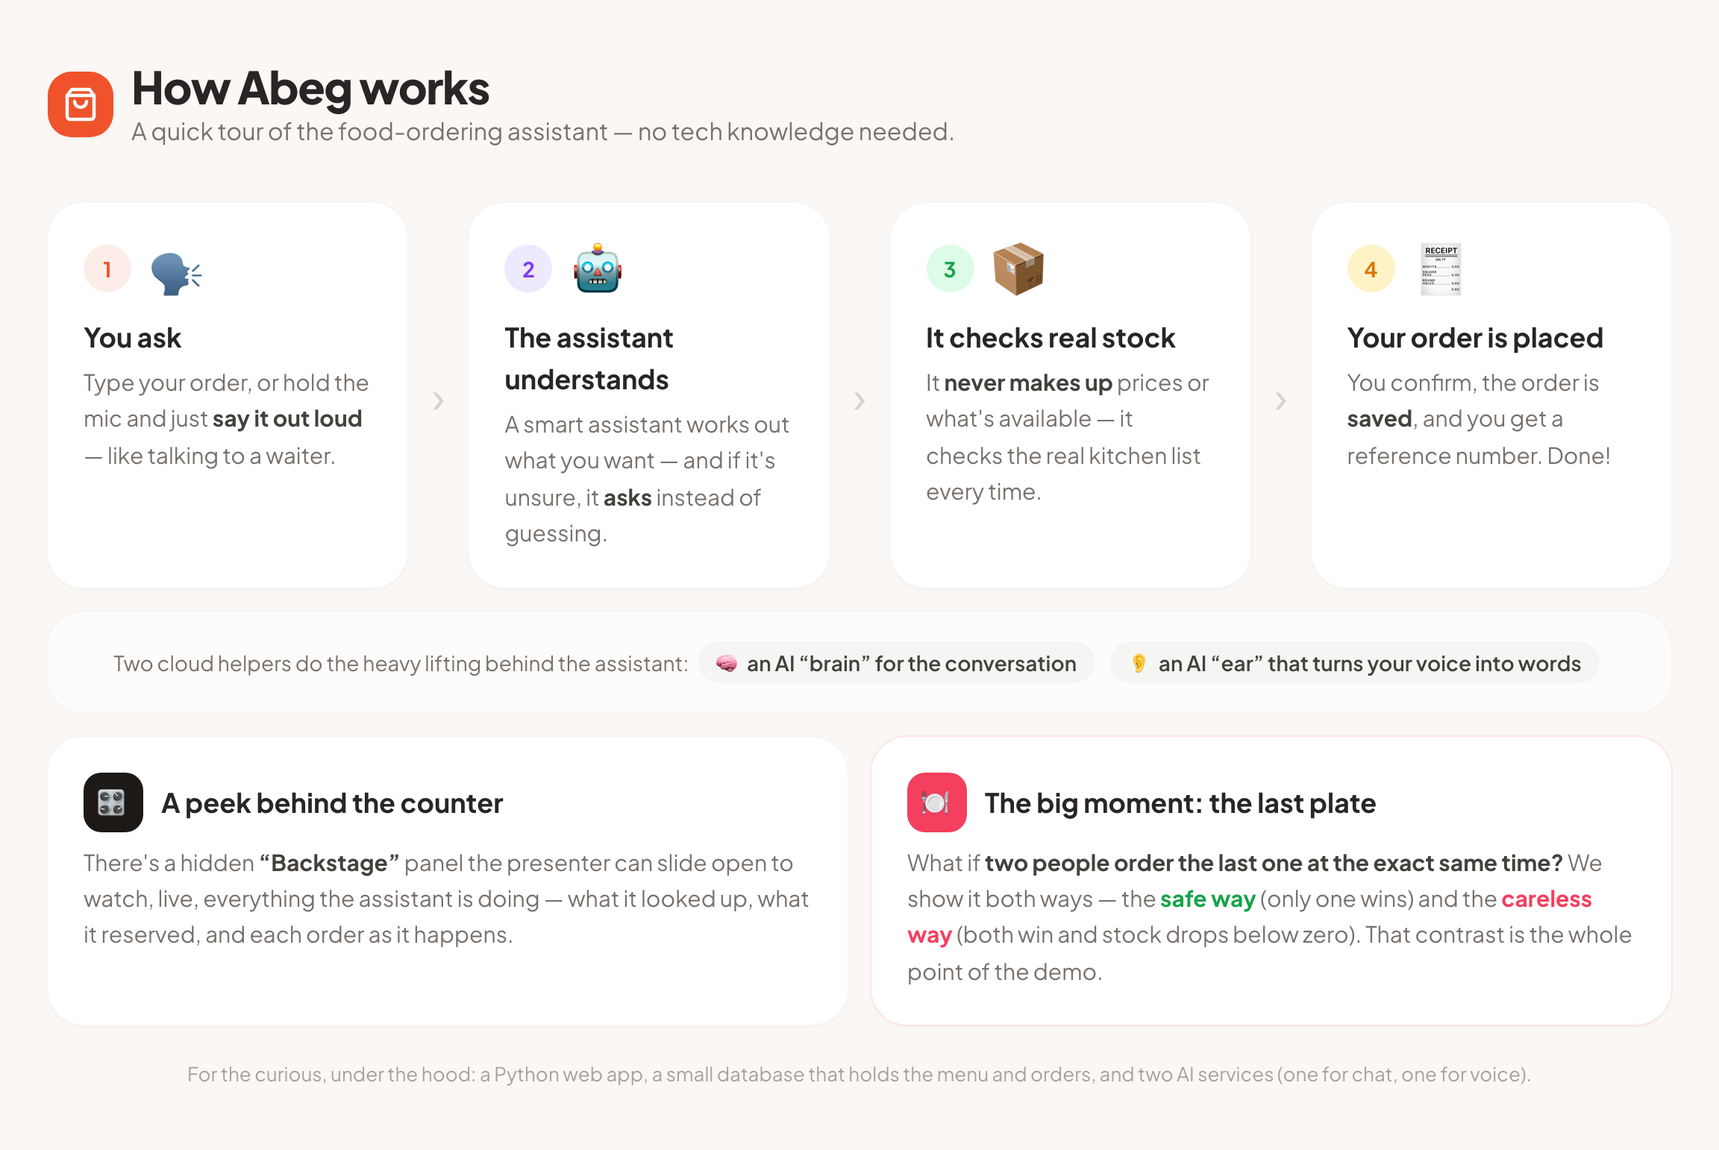
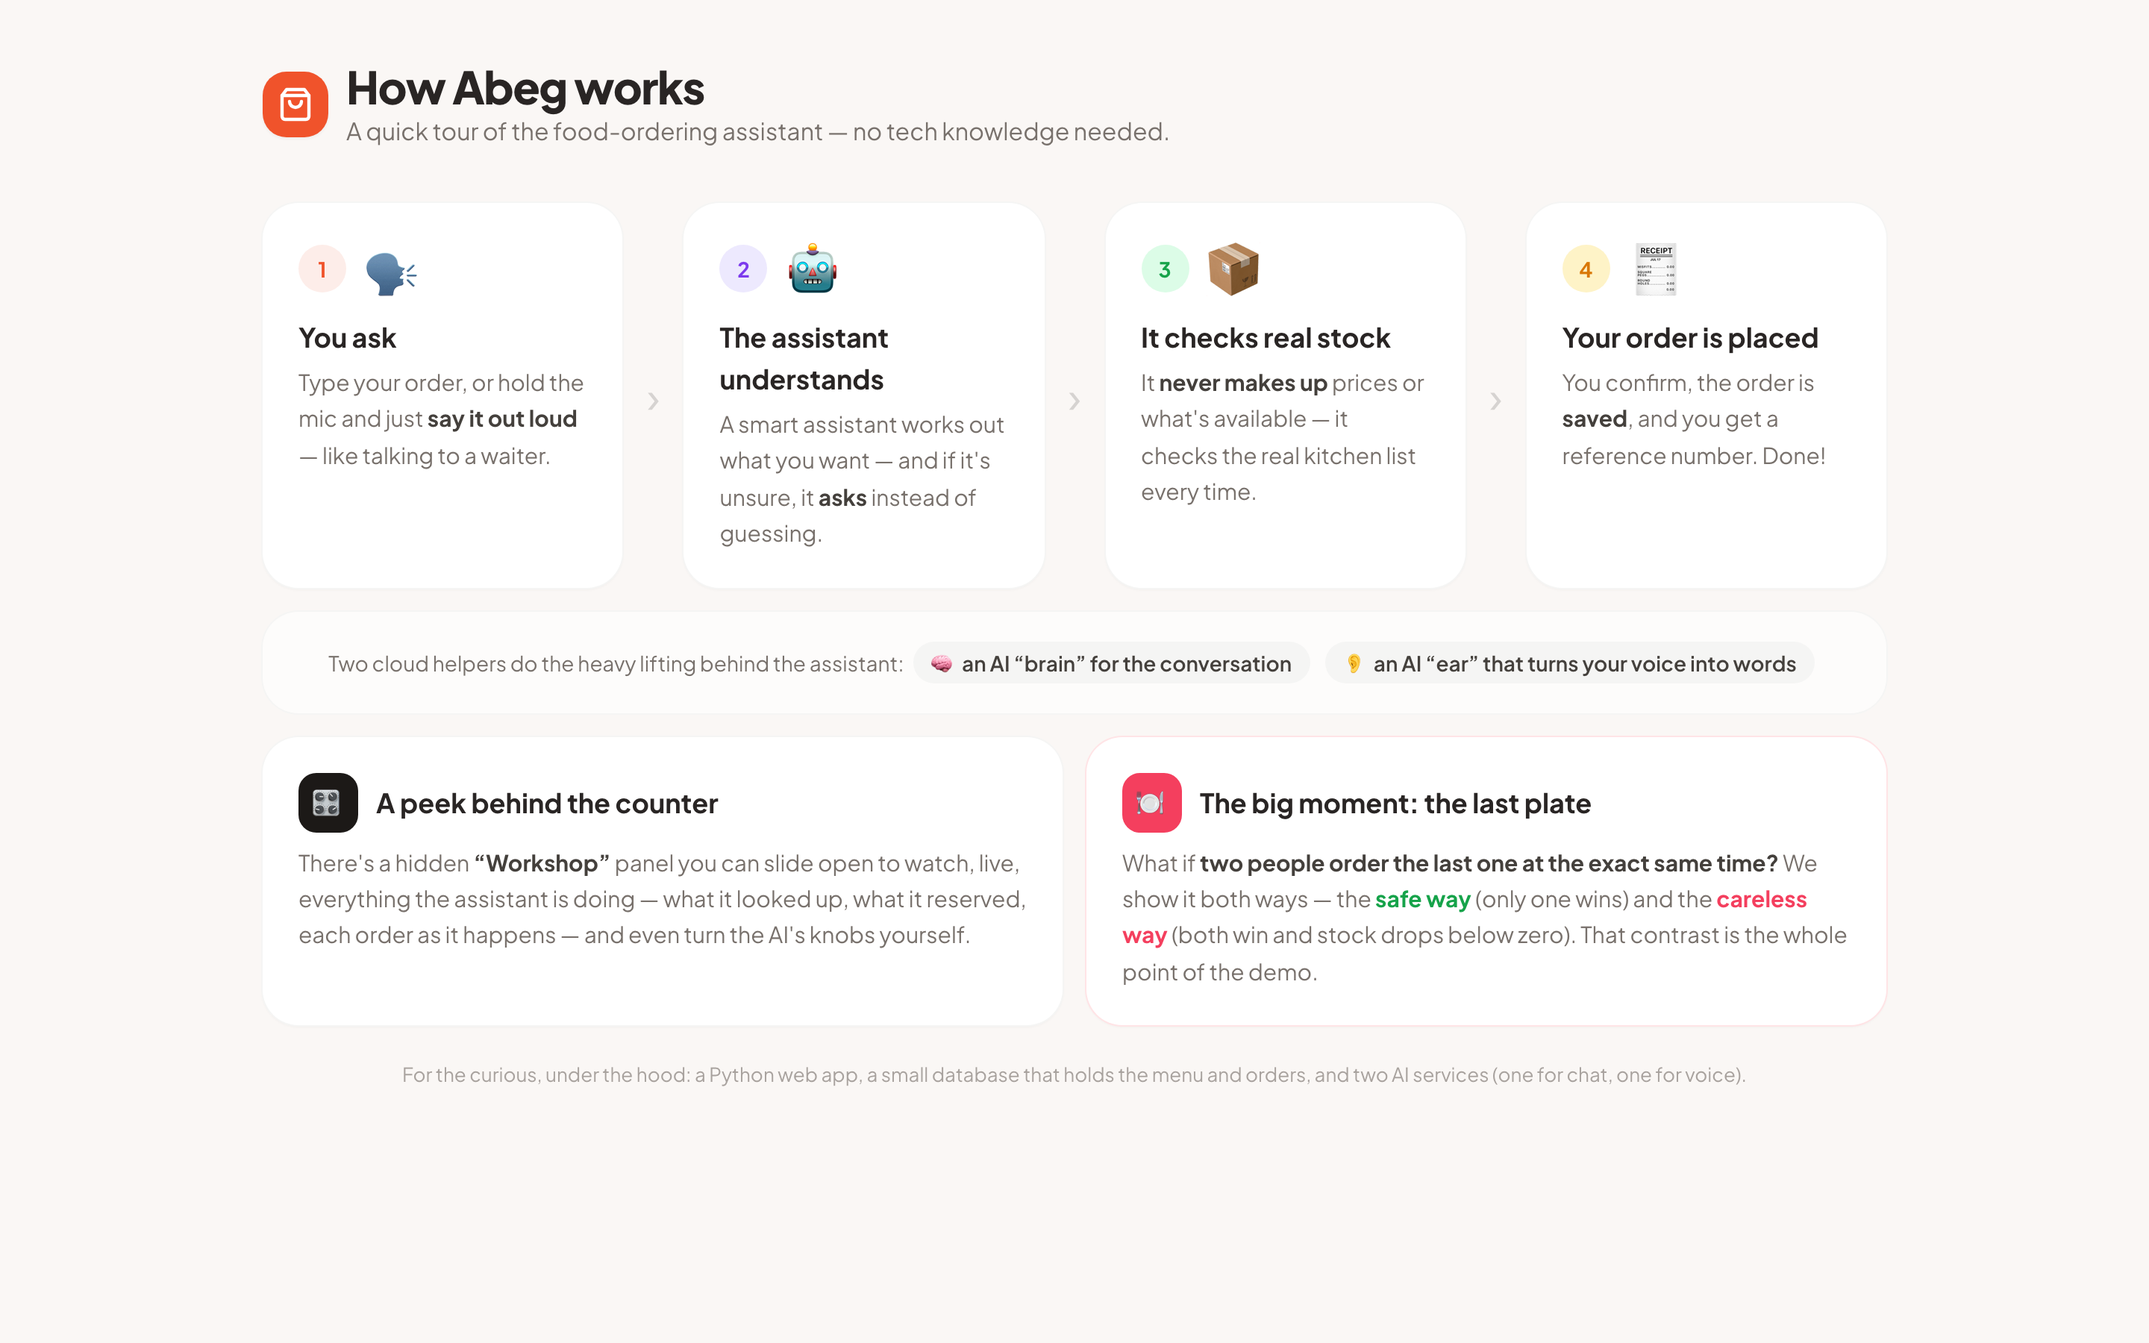
Docs: refresh README + docs, add live-demo & masterclass links, new screenshots
- README rewritten for the current app: live demo link (abeg.ifeolulesi.com),
  the Workshop, both guardrails (grounding + stay-on-task / prompt-injection),
  dark mode, BYOK, rate limiting, TypeScript; tests 24->31; keyboard 'O'
- Fresh screenshots (light + dark storefront, Workshop knobs, race, diagrams)
- Header: 'View source' -> abeg-app; add a subtle 🎓 Masterclass link
- docs/DEPLOY, LINKEDIN, architecture updated (repo name, env vars, Workshop)
- Add '🎓 From the masterclass' section linking the Selar recording

diff --git a/web/src/components/Header.tsx b/web/src/components/Header.tsx
@@ -54,7 +54,17 @@ export default function Header({
             System architecture
           </button>
           <a
-            href="https://github.com/IfeOlulesi/abeg"
+            href="https://selar.com/38531854y1"
+            target="_blank"
+            rel="noopener noreferrer"
+            className={`hidden sm:inline-flex ${base} ${idle}`}
+            title="Get the full Break Into AI Engineering masterclass recording"
+          >
+            <span className="text-[13px] leading-none">🎓</span>
+            Masterclass
+          </a>
+          <a
+            href="https://github.com/IfeOlulesi/abeg-app"
             target="_blank"
             rel="noopener noreferrer"
             className={`hidden sm:inline-flex ${base} ${idle}`}

diff --git a/README.md b/README.md
@@ -2,12 +2,15 @@
 
 # 🛍 Abeg — the AI order agent
 
-**A light e-commerce storefront with an AI assistant that takes orders by chat *or* voice — grounded in real inventory, with a live lesson in why database concurrency matters.**
+**A warm little food shop where customers order by chat *or* voice — and a hands-on lesson in the two guardrails every real AI product needs: don't make things up, and don't get talked into someone else's job.**
 
+[![Live demo](https://img.shields.io/badge/▶_Live_demo-abeg.ifeolulesi.com-F0532B.svg)](https://abeg.ifeolulesi.com)
 [![License: MIT](https://img.shields.io/badge/License-MIT-F0532B.svg)](LICENSE)
+![TypeScript](https://img.shields.io/badge/React-TS%20%2B%20Tailwind-38BDF8.svg)
 ![Python](https://img.shields.io/badge/Python-FastAPI-3776AB.svg)
-![React](https://img.shields.io/badge/React-Vite%20%2B%20Tailwind-38BDF8.svg)
 ![Postgres](https://img.shields.io/badge/DB-PostgreSQL-336791.svg)
+
+### ▶ **Try it live: [abeg.ifeolulesi.com](https://abeg.ifeolulesi.com)**
 
 <img src="docs/images/storefront.png" alt="Abeg storefront and order assistant" width="820" />
 
@@ -19,44 +22,79 @@
 
 **Abeg** ("please" in Nigerian Pidgin) is a small but complete demo: a food shop where customers order by **typing or talking** to an AI assistant. The assistant can only learn about products, prices and stock by **calling tools against a real database** — it never makes anything up.
 
-It was built as a **live masterclass demo** in two acts:
+It was built as the live demo for the **Break Into AI Engineering** masterclass, to make three ideas you can *feel* instead of just hear about:
 
-1. **It works.** A customer orders by voice and by chat; stock moves; a real order is created.
-2. **It breaks, then it doesn't.** Two customers race for the *last unit* at the same instant. In **naive mode** the shop oversells and stock goes negative — visibly. In **guarded mode** one order wins, the other is refused, and stock never drops below zero.
+1. **A grounded agent works.** A customer orders by voice and by chat; stock moves; a real order is created — every price and quantity pulled from Postgres.
+2. **Guardrails are the job.** Flip a switch and watch the AI **hallucinate a price** or get **prompt-injected into writing code** — then flip it back and watch it hold the line. (More below.)
+3. **Systems still bite.** Two customers race for the *last plate* at the same instant: in naive mode the shop oversells and stock goes negative; in guarded mode one order wins, the other is refused, and stock never drops below zero.
 
-Act two is the point: the whole payoff is the visible difference between a naive `read-then-write` and a transactional `SELECT … FOR UPDATE`, toggled live on stage.
+Everything runs on real infrastructure — no mocks — and you can poke at all of it live from **the Workshop**.
 
-## Features
+## 🎛 The Workshop — turn the knobs, watch the AI react
 
-- 🗣 **Order by voice or chat** — one pipeline, two input paths. Hold-to-talk streams your speech to text and feeds the same agent as a typed message.
-- 🧠 **Grounded AI agent** — 5 tools, native tool-calling. Never invents a product, price, or discount; asks when unsure; rejects off-menu items; all money recomputed server-side.
-- 📦 **Live inventory** — stock updates the instant it changes, across every open screen.
-- 🎛 **Backstage panel** — a slide-in operator view: guardrails/cached toggles, the race button, live inventory, and a plain-language activity feed of everything the agent does.
-- 🏁 **The concurrency act** — guarded (row-locked, transactional) vs naive (no lock) order paths, switchable at runtime with zero restart.
-- 🔌 **Swappable providers** — LLM and STT sit behind interfaces; a **cached mode** replays canned responses so the demo survives dead venue wifi.
+Open the **Workshop** (top-right, or press `B`) and you're looking at what an AI engineer actually controls — each with plain-language help and a one-tap **"Try it"**:
+
+<img src="docs/images/workshop.png" alt="The Workshop — live AI controls" width="820" />
+
+- **🧠 The AI's instructions** — the *actual* system prompt, live-editable. Edit it, send a message, watch behaviour change.
+- **🎯 Creativity dial** — temperature, from Focused to Wild.
+- **🛡 Grounding** — on: the AI answers only from the live database and refuses to speculate; **off: it happily makes up a price.** The single most important lesson, as a toggle.
+- **🎯 Stay on task** — prompt-injection defense (see below).
+- **🔀 The brain** — swap the underlying model (DeepSeek / GPT-4o-mini / Claude Haiku) and watch cost & latency move.
+- **🔑 Bring your own key** — paste your own OpenRouter key; your chats run on your account and skip the demo's limit.
+
+And the **X-ray** tab replays every turn in plain language — *you said → the AI decided to use a tool → the database answered → it replied* — with the **real tokens, latency and cost** from that turn. No JSON. That's "what happens inside AI engineering," made visible.
+
+## The two guardrails every AI product needs
+
+This is the heart of the demo — inspired by the viral moment when a customer talked a fast-food chain's AI into writing them a Python script instead of taking their order.
+
+| Guardrail | Off (the failure) | On (the fix) |
+|---|---|---|
+| **🛡 Grounding** | Invents a plausible price from memory | Refuses to speculate; looks it up in the database |
+| **🎯 Stay on task** | Gets **prompt-injected** — writes your linked-list code | Politely declines and steers back to ordering |
+
+Both are real: a firm prompt clause **plus** an output-side backstop that catches a slipped answer even if the model caves — and the X-ray shows a *"🛡 blocked"* chip when a guardrail fires. Tap **script #4** ("order jollof, then ask it to reverse a linked list") with **Stay on task** off, watch it get hijacked, then flip it on and watch it hold.
+
+## The concurrency act
+
+<img src="docs/images/race.png" alt="The last-unit race and live inventory" width="820" />
+
+Press `R` to send two orders for the *last plate* at the same instant. With **Grounding off** (naive `read-then-write`) the shop oversells and stock goes to **−1**, visibly. Flip it **on** (transactional `SELECT … FOR UPDATE`) and one order wins, the other is refused, and stock never drops below zero. Same app, one toggle — that contrast is the whole lesson.
+
+## Features at a glance
+
+- 🗣 **Order by voice or chat** — one agent pipeline, two input paths (hold-to-talk streams speech to text).
+- 🧠 **Grounded agent** — 5 tools, native tool-calling; all money recomputed server-side.
+- 🎛 **The Workshop** — live, explained controls for prompt, temperature, grounding, on-task, model, and BYOK.
+- 🔍 **X-ray** — plain-language turn trace with real tokens / latency / cost.
+- 🌙 **Light & dark mode** — warm by day, warm by night; respects your OS.
+- 🏁 **Concurrency demo** — guarded vs naive order paths, switchable live.
+- 💸 **Cost-safe by design** — per-IP + daily **rate limits**, **BYOK**, and a graceful "AI is catching its breath" message when a key is throttled.
+- 🔌 **Swappable providers** + a **cached mode** so a dead venue wifi can't kill the demo.
 
 ## Screenshots
 
-| Order by chat & voice | Backstage + the "last unit" race |
+| Dark mode | The beginner "how it works" |
 |---|---|
-| ![chat](docs/images/chat.png) | ![backstage](docs/images/backstage-race.png) |
+| ![dark](docs/images/storefront-dark.png) | ![how it works](docs/images/how-it-works.png) |
 
 ## How it works
 
-A 4-step story (and a component diagram) live in [`docs/architecture.md`](docs/architecture.md):
+A plain-language walkthrough and a system diagram open **inside the app** ("How it works" / "System architecture" in the header), and live in [`docs/architecture.md`](docs/architecture.md):
 
 <img src="docs/images/system.png" alt="System architecture: app, server, AI services, database" width="820" />
 
-- **The App** (React + Tailwind, in your browser) talks only to **the Server**.
-- **The Server** (Python · FastAPI) runs the agent and coordinates everything.
-- **AI services**: OpenRouter (chat/tool-calling) and Deepgram (speech-to-text).
-- **PostgreSQL** stores the menu, stock, and every order.
+- **The App** (React + TypeScript + Tailwind, in your browser) talks only to **the Server**.
+- **The Server** (Python · FastAPI) runs the agent and coordinates everything over SSE + WebSockets.
+- **AI services**: OpenRouter (chat / tool-calling) and Deepgram (speech-to-text).
+- **PostgreSQL** stores the menu, stock, and every order — with real transactions and row locks.
 
 ## Tech stack
 
 | Layer | Choice |
 |---|---|
-| Frontend | React 18, Vite, Tailwind CSS |
+| Frontend | React 18, **TypeScript**, Vite, Tailwind CSS |
 | Backend | Python, FastAPI, uvicorn (SSE + WebSocket) |
 | Database | PostgreSQL (asyncpg, real transactions & row locks) |
 | LLM | OpenRouter (any tool-calling model, e.g. DeepSeek) |
@@ -67,8 +105,8 @@ A 4-step story (and a component diagram) live in [`docs/architecture.md`](docs/a
 You need **Docker** and API keys for [OpenRouter](https://openrouter.ai/keys) and (for voice) [Deepgram](https://console.deepgram.com).
 
 ```bash
-git clone https://github.com/<your-username>/abeg.git
-cd abeg
+git clone https://github.com/IfeOlulesi/abeg-app.git
+cd abeg-app
 cp .env.example .env        # then paste your keys into .env
 docker compose up           # starts Postgres + the app
 ```
@@ -92,37 +130,50 @@ uv run uvicorn app.main:app --port 8000
 
 | Key | Action |
 |-----|--------|
-| `1`–`4` | Fire scripted customer messages |
+| `1`–`4` | Fire scripted customer messages (`4` = the prompt-injection one) |
 | `R` | Race — two orders for the last unit |
-| `G` | Toggle guardrails (naive ⇄ locked path) |
+| `G` | Toggle **Grounding** (naive ⇄ locked path) |
+| `O` | Toggle **Stay on task** (prompt-injection defense) |
 | `C` | Toggle cached / offline mode |
 | `X` | Reset all data to seed |
-| `B` | Open/close Backstage |
+| `B` | Open / close the Workshop |
 
-**The act-two moment:** press `G` (guardrails off) → `R` → the last unit goes to **−1**, visibly oversold. Then `G` (on) → `X` (reset) → `R` → one order wins, one is refused, stock stays ≥ 0.
+**The act-two moment:** `G` (grounding off) → `R` → the last unit goes to **−1**, oversold. Then `G` (on) → `X` (reset) → `R` → one order wins, one is refused, stock stays ≥ 0.
 
 ## Configuration
 
 All config is via environment variables (see [`.env.example`](.env.example)):
 
 - `DATABASE_URL` — PostgreSQL connection string.
-- `OPENROUTER_API_KEY`, `OPENROUTER_MODEL` — the chat/tool-calling model.
+- `OPENROUTER_API_KEY`, `OPENROUTER_MODEL` — the chat / tool-calling model.
 - `DEEPGRAM_API_KEY` — streaming speech-to-text (voice input only).
+- `APP_URL` — public URL, sent to OpenRouter as the app referer.
+- **Rate limits** (protect your credits on a public deploy): `RATE_LIMIT_ENABLED`, `CHAT_IP_LIMIT`, `CHAT_DAILY_LIMIT`, `STT_IP_LIMIT`, `STT_DAILY_LIMIT`.
+
+Visitors can also **bring their own OpenRouter key** in the Workshop — it's stored only in their browser, sent per-request, never persisted, and bypasses the demo rate limit.
 
 ## Tests
 
 ```bash
-uv run pytest          # 24 tests; the concurrency suite locks down act two
+uv run pytest          # 31 tests; the concurrency suite locks down the race,
+                       # plus grounding, on-task, and rate-limit guards
 ```
 
 ## Deploying
 
-See [`docs/DEPLOY.md`](docs/DEPLOY.md) for one-click-ish deploys (Railway / Render / Fly.io) and the important **cost & safety notes** — this is an unauthenticated demo that spends real API credits.
+See [`docs/DEPLOY.md`](docs/DEPLOY.md) for container deploys (Railway / Render / Fly.io), custom domains, and the important **cost & safety notes** — this is an unauthenticated demo that spends real API credits.
 
 ## ⚠ It's a demo, not a product
 
-By design there is **no authentication, no payments, and a mode that deliberately corrupts data** (to teach why locking matters). If you host it publicly, anyone can use it and spend your API credits — set a spending cap on your keys, and consider leaving it in cached mode or taking it down after your talk. Non-goals: auth, payments, delivery, images, admin CRUD, mobile layout.
+By design there is **no authentication, no payments, and a mode that deliberately corrupts data** (to teach why locking matters). If you host it publicly, set a **spending cap** on your OpenRouter key (and top up credit to raise the rate-limit ceiling), keep the built-in rate limits on, and let visitors BYOK. Non-goals: auth, payments, delivery, images, admin CRUD, mobile layout.
+
+## 🎓 From the masterclass
+
+Abeg is the live demo from the **Break Into AI Engineering** masterclass. Want the full recording — how it's built, why grounding and on-task guardrails matter, and how to think like an AI engineer?
+
+### 👉 **Get the recording: [selar.com/38531854y1](https://selar.com/38531854y1)**
 
 ## License
 
 [MIT](LICENSE) — do whatever you like; attribution appreciated.
+</content>

diff --git a/docs/DEPLOY.md b/docs/DEPLOY.md
@@ -18,6 +18,9 @@ automatically. There is no separate migration step.
    - `DATABASE_URL` — your Postgres connection string.
    - `OPENROUTER_API_KEY`, `OPENROUTER_MODEL` — the chat/tool-calling model.
    - `DEEPGRAM_API_KEY` — voice input (optional).
+   - `APP_URL` — your public URL (sent to OpenRouter as the app referer).
+   - **Rate limits** (optional, on by default): `RATE_LIMIT_ENABLED`,
+     `CHAT_IP_LIMIT`, `CHAT_DAILY_LIMIT`, `STT_IP_LIMIT`, `STT_DAILY_LIMIT`.
 3. The provided **[`Dockerfile`](../Dockerfile)** (multi-stage: builds the React app, runs FastAPI).
 
 ---
@@ -65,12 +68,18 @@ This is a **teaching demo with no authentication**. If you put it on the public
 internet:
 
 - **Anyone can use it, spending _your_ API credits.** Set a hard **spending cap**
-  on your OpenRouter key and your Deepgram usage. Consider a low-limit key.
+  on your OpenRouter key and your Deepgram usage. Note: OpenRouter's rate limits
+  scale with your credit balance — a near-empty key gets throttled (403s), so
+  keep a little credit on it.
+- **Rate limiting is built in** (per-IP window + global daily cap on chat & voice)
+  and on by default — tune it with the `*_LIMIT` env vars above.
+- **BYOK:** visitors can paste their own OpenRouter key in the Workshop; their
+  calls are billed to them and bypass the demo limit — the cheapest way to keep a
+  public demo alive.
 - **Naive mode intentionally corrupts data** (overselling stock) to teach why
-  locking matters. Use `X` to reset; keep **guardrails on** by default.
+  locking matters. Use `X` to reset; keep **grounding on** by default.
 - Prefer a **short-lived** deployment for a talk, or leave it in **cached mode**
   (press `C`) so it runs without hitting the AI at all.
-- No rate limiting is built in — add one at your proxy/platform if it stays up.
 
 ---
 
@@ -92,9 +101,9 @@ git init -b main
 git add .
 git status          # SANITY CHECK: confirm there is NO .env and NO .claude/
 git commit -m "Abeg — AI order agent that takes orders by chat or voice"
-gh repo create abeg --public --source=. --remote=origin --push
+gh repo create abeg-app --public --source=. --remote=origin --push
 ```
 
 Then set the repo description, topics (`ai`, `agent`, `fastapi`, `react`,
-`postgresql`, `voice`, `openrouter`, `deepgram`), and a social preview image
-(`docs/images/storefront.png`).
+`typescript`, `postgresql`, `voice`, `openrouter`, `deepgram`), and a social
+preview image (`docs/images/storefront.png`).

diff --git a/docs/LINKEDIN.md b/docs/LINKEDIN.md
@@ -28,9 +28,10 @@ Under the hood:
 • OpenRouter (DeepSeek) for the agent's tool-calling
 • Deepgram for live voice-to-text
 
-The assistant can only answer by **calling tools against the database** — it never invents a price or makes up stock. There's a "Backstage" panel that shows every tool call live, and a cached mode so dead venue wifi can't kill the demo.
+The assistant can only answer by **calling tools against the database** — it never invents a price or makes up stock. There's a live **Workshop** where you can flip the AI's guardrails on and off (including a prompt-injection defense) and watch every tool call, token and cost in real time.
 
-Code + a beginner-friendly walkthrough 👉 [repo link]
+▶ Try it live 👉 https://abeg.ifeolulesi.com
+💻 Code 👉 https://github.com/IfeOlulesi/abeg-app
 
 If you teach, present, or just enjoy watching software break on purpose — take it for a spin. ⭐
 
@@ -46,6 +47,6 @@ I built **Abeg**, an open-source AI ordering assistant (voice + chat), specifica
 
 React + FastAPI + PostgreSQL + OpenRouter + Deepgram. The AI only answers by querying the real database — no made-up prices.
 
-Try it / read the walkthrough 👉 [repo link]
+▶ Live demo 👉 https://abeg.ifeolulesi.com · Code 👉 https://github.com/IfeOlulesi/abeg-app
 
 \#AI #Databases #OpenSource #Python #React #Concurrency

diff --git a/docs/architecture.md b/docs/architecture.md
@@ -12,17 +12,17 @@ all state lives in PostgreSQL.
 
 ```mermaid
 flowchart LR
-  subgraph Browser["Browser · React + Tailwind SPA"]
+  subgraph Browser["Browser · React + TypeScript + Tailwind SPA"]
     direction TB
     SF["Storefront<br/>product cards · live stock"]
     CH["Order Assistant<br/>chat · markdown · hold-to-talk voice"]
-    BS["Backstage<br/>controls · inventory · activity"]
+    BS["Workshop<br/>live AI knobs · X-ray trace · inventory"]
   end
 
   subgraph API["FastAPI · uvicorn — app/"]
     direction TB
     R{{"HTTP + WS routes · main.py"}}
-    AG["Agent loop · agent.py<br/>tool loop · bounded · ungrounded guard"]
+    AG["Agent loop · agent.py<br/>tool loop · bounded · grounding + on-task guards"]
     TL["5 Tools · tools.py<br/>search · check · reserve · place · cancel"]
     EB(["Event bus · events.py<br/>pub/sub → operator stream"])
     CFG["Runtime config · config.py<br/>guardrails · cached · TTL"]
